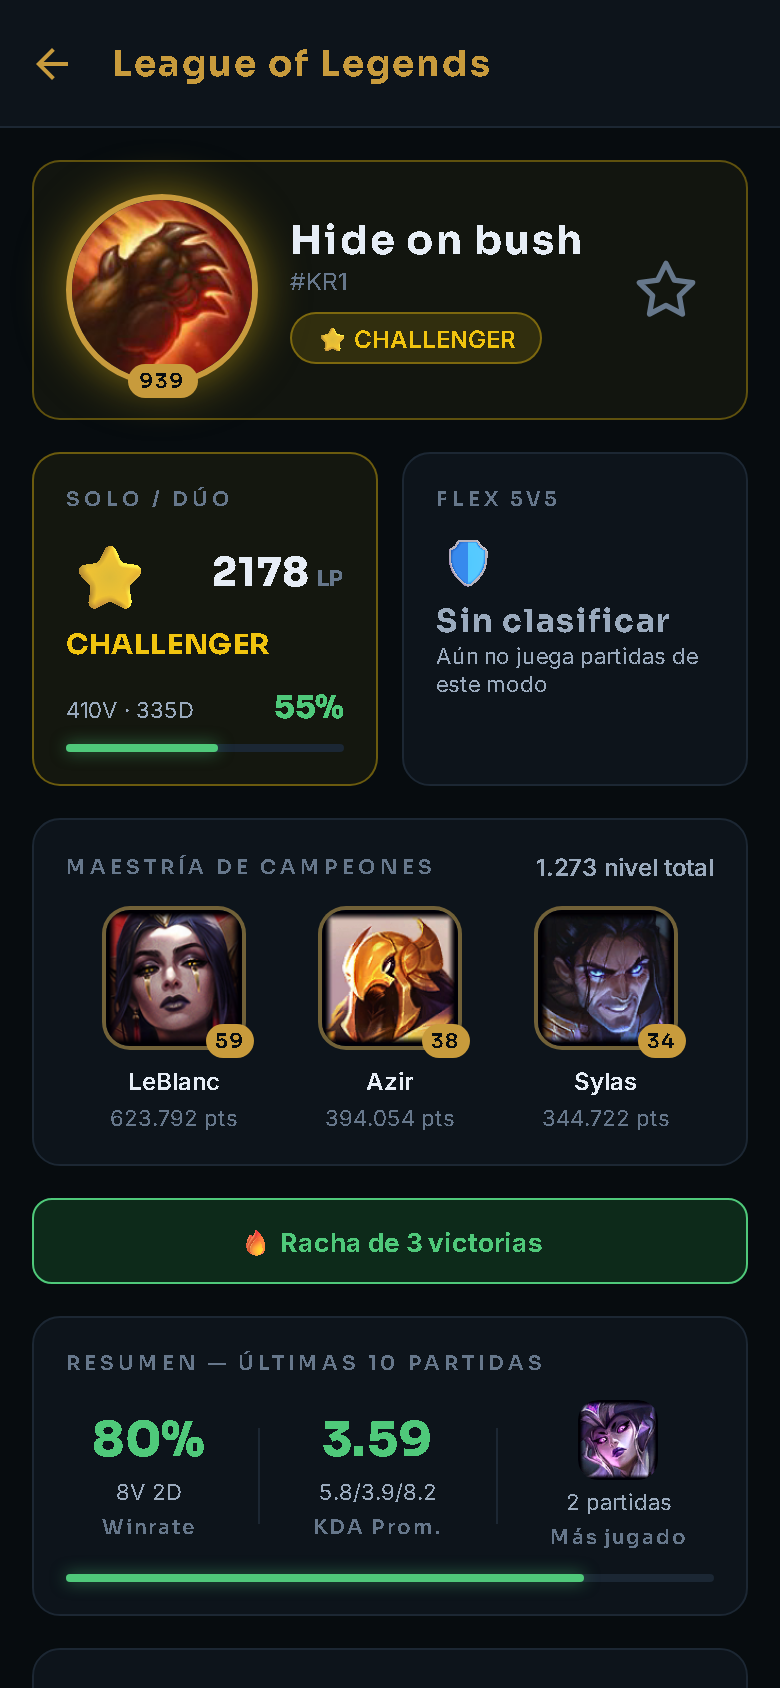
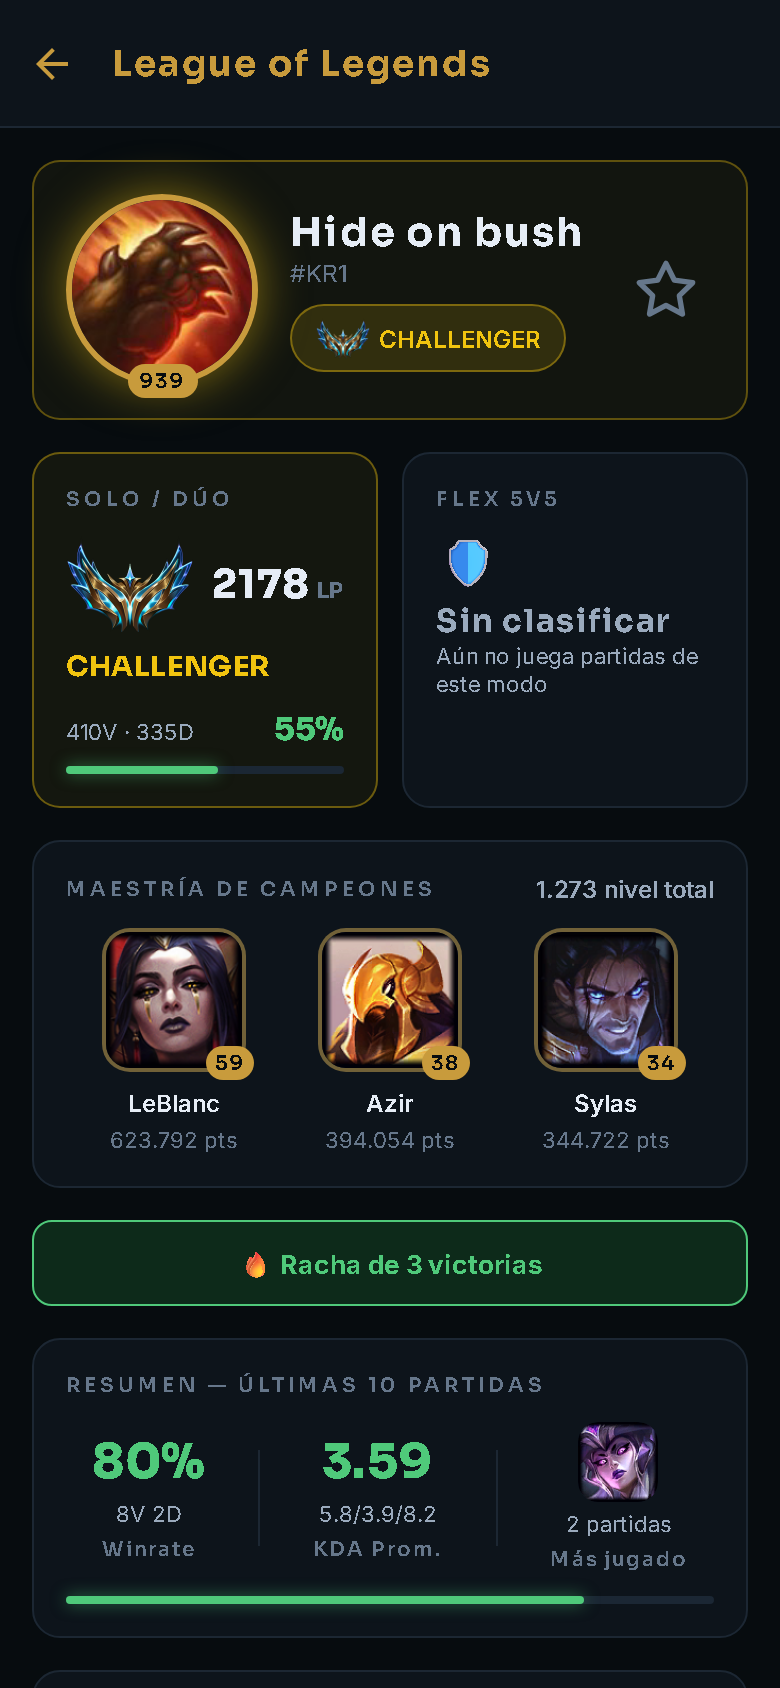
feat: emblemas de rango oficiales (Iron a Challenger) en perfil, tarjetas de ranked y favoritos; script para generarlos

diff --git a/src/components/FavoriteCard.jsx b/src/components/FavoriteCard.jsx
@@ -3,7 +3,7 @@ import { View, Text, Image, StyleSheet } from "react-native";
 import { PressableScale } from "./ui";
 import { getGame } from "../games";
 import { profileIconUrl } from "../api/ddragon";
-import { TIER_ICONS } from "../constants/config";
+import RankEmblem from "./RankEmblem";
 import { tierLabel } from "../utils/format";
 import { getRegion } from "../constants/regions";
 import { colors, radii, sizes, spacing, fontSizes, type, withAlpha } from "../theme";
@@ -39,8 +39,9 @@ export default function FavoriteCard({ fav, onPress, onRemove, style }) {
       <Text style={styles.tag} numberOfLines={1}>#{fav.tagLine} · {getRegion(fav.region).label}</Text>
 
       <View style={[styles.rank, { backgroundColor: withAlpha(tint, 0.14) }]}>
+        {fav.tier ? <RankEmblem tier={fav.tier} size={sizes.item} /> : null}
         <Text style={[styles.rankText, { color: tierColor || colors.textMuted }]} numberOfLines={1}>
-          {fav.tier ? `${TIER_ICONS[fav.tier] || ""} ${tierLabel(fav.tier, fav.rank)}`.trim() : "Sin rango"}
+          {fav.tier ? tierLabel(fav.tier, fav.rank) : "Sin rango"}
         </Text>
       </View>
     </PressableScale>
@@ -60,6 +61,6 @@ const styles = StyleSheet.create({
   removeText:      { ...type.caption, color: colors.textFaint },
   name:            { ...type.bodyStrong, fontSize: fontSizes.base, color: colors.text },
   tag:             { ...type.caption, color: colors.textMuted },
-  rank:            { marginTop: spacing.sm, alignSelf: "flex-start", paddingHorizontal: spacing.sm, paddingVertical: spacing.xs, borderRadius: radii.pill },
+  rank:            { marginTop: spacing.sm, alignSelf: "flex-start", flexDirection: "row", alignItems: "center", gap: spacing.xs, paddingHorizontal: spacing.sm, paddingVertical: spacing.xs, borderRadius: radii.pill },
   rankText:        { ...type.captionStrong },
 });

diff --git a/src/components/RankedCard.jsx b/src/components/RankedCard.jsx
@@ -1,7 +1,7 @@
 import React from "react";
 import { View, Text, StyleSheet } from "react-native";
 import { Card, ProgressBar, SectionLabel } from "./ui";
-import { TIER_ICONS } from "../constants/config";
+import RankEmblem from "./RankEmblem";
 import { winrate, tierLabel } from "../utils/format";
 import { colors, spacing, sizes, fontSizes, type, tracking, winrateColor, useAccent, withAlpha } from "../theme";
 
@@ -29,7 +29,7 @@ export default function RankedCard({ entry, label, game = "lol" }) {
     <Card style={[styles.card, { borderColor: withAlpha(color, 0.4), backgroundColor: withAlpha(color, 0.06) }]}>
       <SectionLabel>{label}</SectionLabel>
       <View style={styles.top}>
-        <Text style={styles.tierIcon}>{TIER_ICONS[tier] || "🏆"}</Text>
+        <RankEmblem tier={tier} size={sizes.avatarXl - spacing.lg} />
         <Text style={styles.lp} numberOfLines={1}>{leaguePoints}<Text style={styles.lpUnit}> LP</Text></Text>
       </View>
       <Text style={[styles.tierText, { color }]} numberOfLines={1} adjustsFontSizeToFit>{tierLabel(tier, rank)}</Text>
@@ -45,7 +45,6 @@ export default function RankedCard({ entry, label, game = "lol" }) {
 const styles = StyleSheet.create({
   card:         { flex: 1, marginBottom: 0 },
   top:          { flexDirection: "row", alignItems: "center", justifyContent: "space-between", gap: spacing.sm },
-  tierIcon:     { fontSize: fontSizes.hero },
   tierText:     { ...type.heading, fontSize: fontSizes.base, letterSpacing: tracking.tight, marginTop: spacing.xs, marginBottom: spacing.md },
   lp:           { ...type.statLarge, fontSize: fontSizes.xl, color: colors.text, flexShrink: 1 },
   lpUnit:       { ...type.captionStrong, color: colors.textMuted },

diff --git a/src/components/ui/ProfileHeader.jsx b/src/components/ui/ProfileHeader.jsx
@@ -6,7 +6,7 @@ import { colors, radii, sizes, spacing, type, fontSizes, glow, useAccent, withAl
 
 // Cabecera de perfil: avatar grande con resplandor del color del rango + nombre#tag + insignia + acción
 export default function ProfileHeader({
-  avatar, name, tag, badge, subtitle, game, glowColor, action, onAction, avatarSize,
+  avatar, name, tag, badge, badgeIcon, subtitle, game, glowColor, action, onAction, avatarSize,
 }) {
   const accent = useAccent(game);
   const tint = glowColor || accent;
@@ -19,6 +19,7 @@ export default function ProfileHeader({
         {subtitle ? <Text style={styles.subtitle}>{subtitle}</Text> : null}
         {badge ? (
           <View style={[styles.badge, { backgroundColor: withAlpha(tint, 0.14), borderColor: withAlpha(tint, 0.4) }]}>
+            {badgeIcon}
             <Text style={[styles.badgeText, { color: tint }]}>{badge}</Text>
           </View>
         ) : null}
@@ -40,7 +41,7 @@ const styles = StyleSheet.create({
   tag:       { ...type.small, color: colors.textMuted },
   subtitle:  { ...type.caption, color: colors.textMuted, marginTop: spacing.xxs },
   badge:     {
-    marginTop: spacing.sm, alignSelf: "flex-start", borderWidth: sizes.hairline,
+    marginTop: spacing.sm, alignSelf: "flex-start", flexDirection: "row", alignItems: "center", gap: spacing.xs, borderWidth: sizes.hairline,
     paddingHorizontal: spacing.md, paddingVertical: spacing.xs, borderRadius: radii.pill,
   },
   badgeText: { ...type.smallStrong },

diff --git a/src/components/ProfileView.jsx b/src/components/ProfileView.jsx
@@ -3,7 +3,7 @@ import { ScrollView, StyleSheet, RefreshControl } from "react-native";
 import Reveal from "./Reveal";
 import { ErrorBanner, ProfileHeader } from "./ui";
 import { getGame } from "../games";
-import { TIER_ICONS } from "../constants/config";
+import RankEmblem from "./RankEmblem";
 import { errorMessage, tierLabel } from "../utils/format";
 import Icon from "./Icon";
 import { isFavoriteIn, loadFavorites, refreshFavorite, toggleFavorite } from "../utils/favorites";
@@ -62,7 +62,7 @@ export default function ProfileView({ gameId, initialData, mine, headerAction, b
   }
 
   const ranked = profile.ranked;
-  const badge = ranked ? `${TIER_ICONS[ranked.tier] || ""} ${tierLabel(ranked.tier, ranked.rank)}`.trim() : null;
+  const badge = ranked ? tierLabel(ranked.tier, ranked.rank) : null;
 
   return (
     <ScrollView
@@ -80,6 +80,7 @@ export default function ProfileView({ gameId, initialData, mine, headerAction, b
           tag={profile.tag}
           subtitle={profile.subtitle}
           badge={badge}
+          badgeIcon={ranked ? <RankEmblem tier={ranked.tier} size={sizes.item} /> : null}
           glowColor={colors.tier[ranked?.tier]}
           action={headerAction ? headerAction.icon : (
             <Icon name="star" size={sizes.avatarSm} color={isFav ? colors.gold : colors.textMuted} filled={isFav} />

diff --git a/src/components/RankEmblem.jsx b/src/components/RankEmblem.jsx
@@ -1,0 +1,25 @@
+import React from "react";
+import { Image } from "react-native";
+
+// Emblemas de rango oficiales (assets del cliente vía Community Dragon, ver scripts/generate-rank-emblems.py)
+const EMBLEMS = {
+  IRON:        require("../../assets/ranks/iron.png"),
+  BRONZE:      require("../../assets/ranks/bronze.png"),
+  SILVER:      require("../../assets/ranks/silver.png"),
+  GOLD:        require("../../assets/ranks/gold.png"),
+  PLATINUM:    require("../../assets/ranks/platinum.png"),
+  EMERALD:     require("../../assets/ranks/emerald.png"),
+  DIAMOND:     require("../../assets/ranks/diamond.png"),
+  MASTER:      require("../../assets/ranks/master.png"),
+  GRANDMASTER: require("../../assets/ranks/grandmaster.png"),
+  CHALLENGER:  require("../../assets/ranks/challenger.png"),
+};
+
+const ASPECT = 256 / 224;   // proporción de los archivos generados
+
+// `size` es el alto en px. Si el tier no existe no muestra nada.
+export default function RankEmblem({ tier, size, style }) {
+  const source = EMBLEMS[tier];
+  if (!source) return null;
+  return <Image source={source} resizeMode="contain" style={[{ width: size * ASPECT, height: size }, style]} />;
+}

diff --git a/src/constants/config.js b/src/constants/config.js
@@ -19,9 +19,3 @@ export const LEGACY_KEYS = {
   [FAVORITES_KEY]:  ["loltracker_favorites"],
   [MY_PROFILE_KEY]: ["ggtracker_my_profile"],
 };
-
-export const TIER_ICONS = {
-  IRON: "⚫", BRONZE: "🟤", SILVER: "⚪", GOLD: "🟡",
-  PLATINUM: "🔵", EMERALD: "🟢", DIAMOND: "💎",
-  MASTER: "🟣", GRANDMASTER: "🔴", CHALLENGER: "⭐",
-};

diff --git a/scripts/generate-rank-emblems.py b/scripts/generate-rank-emblems.py
@@ -1,0 +1,34 @@
+"""Descarga los emblemas de rango de Community Dragon (mismos assets del cliente de LoL),
+recorta el margen transparente y los deja en assets/ranks/<tier>.png (256 px de ancho).
+
+Uso: python scripts/generate-rank-emblems.py   (requiere Pillow)
+"""
+import io
+import os
+import urllib.request
+from PIL import Image
+
+BASE = "https://raw.communitydragon.org/latest/plugins/rcp-fe-lol-static-assets/global/default/images/ranked-emblem"
+TIERS = ["iron", "bronze", "silver", "gold", "platinum", "emerald", "diamond", "master", "grandmaster", "challenger"]
+OUT = os.path.join(os.path.dirname(__file__), "..", "assets", "ranks")
+WIDTH = 256
+
+os.makedirs(OUT, exist_ok=True)
+images = {}
+for tier in TIERS:
+    req = urllib.request.Request(f"{BASE}/emblem-{tier}.png", headers={"User-Agent": "kairo-build-script"})
+    with urllib.request.urlopen(req) as r:
+        images[tier] = Image.open(io.BytesIO(r.read())).convert("RGBA")
+
+# Cada emblema viene en un lienzo enorme y con tamaños muy distintos: se recorta a su caja y se
+# ajusta ("contain") a un lienzo común de WIDTH x HEIGHT, centrado.
+HEIGHT = 224
+for tier, img in images.items():
+    box = img.getchannel("A").point(lambda a: 255 if a > 8 else 0).getbbox()
+    crop = img.crop(box)
+    scale = min(WIDTH / crop.width, HEIGHT / crop.height)
+    crop = crop.resize((round(crop.width * scale), round(crop.height * scale)), Image.LANCZOS)
+    canvas = Image.new("RGBA", (WIDTH, HEIGHT), (0, 0, 0, 0))
+    canvas.paste(crop, ((WIDTH - crop.width) // 2, (HEIGHT - crop.height) // 2), crop)
+    canvas.save(os.path.join(OUT, f"{tier}.png"), optimize=True)
+    print(tier, "ok")

diff --git a/README.md b/README.md
@@ -46,6 +46,7 @@ Estadísticas de **League of Legends** y **Teamfight Tactics** en una app móvil
 - 🚀 **Pantalla de carga animada** con progreso real de arranque y aparición escalonada de las secciones.
 - 🫧 **Skeletons**, estados vacíos amables y errores con botón de reintentar.
 - 📳 **Háptica** y escala sutil al presionar; barra de navegación flotante tipo *pill*.
+- 🏅 **Emblemas de rango oficiales** (Iron → Challenger) en el perfil, las tarjetas de ranked y Favoritos.
 - 📊 **LoL extra:** maestría de campeones (top 3 con nivel y puntos), rotación gratuita de la semana y aviso de mantenimiento del servidor de tu región.
 - 🧭 **Juegos según tu key:** el backend detecta qué APIs habilita tu key de Riot; lo que no esté habilitado aparece como "PRONTO" en vez de dar errores.
 - 🎯 **Valorant**: próximamente (su API de partidas requiere una *production key* aprobada por Riot).
